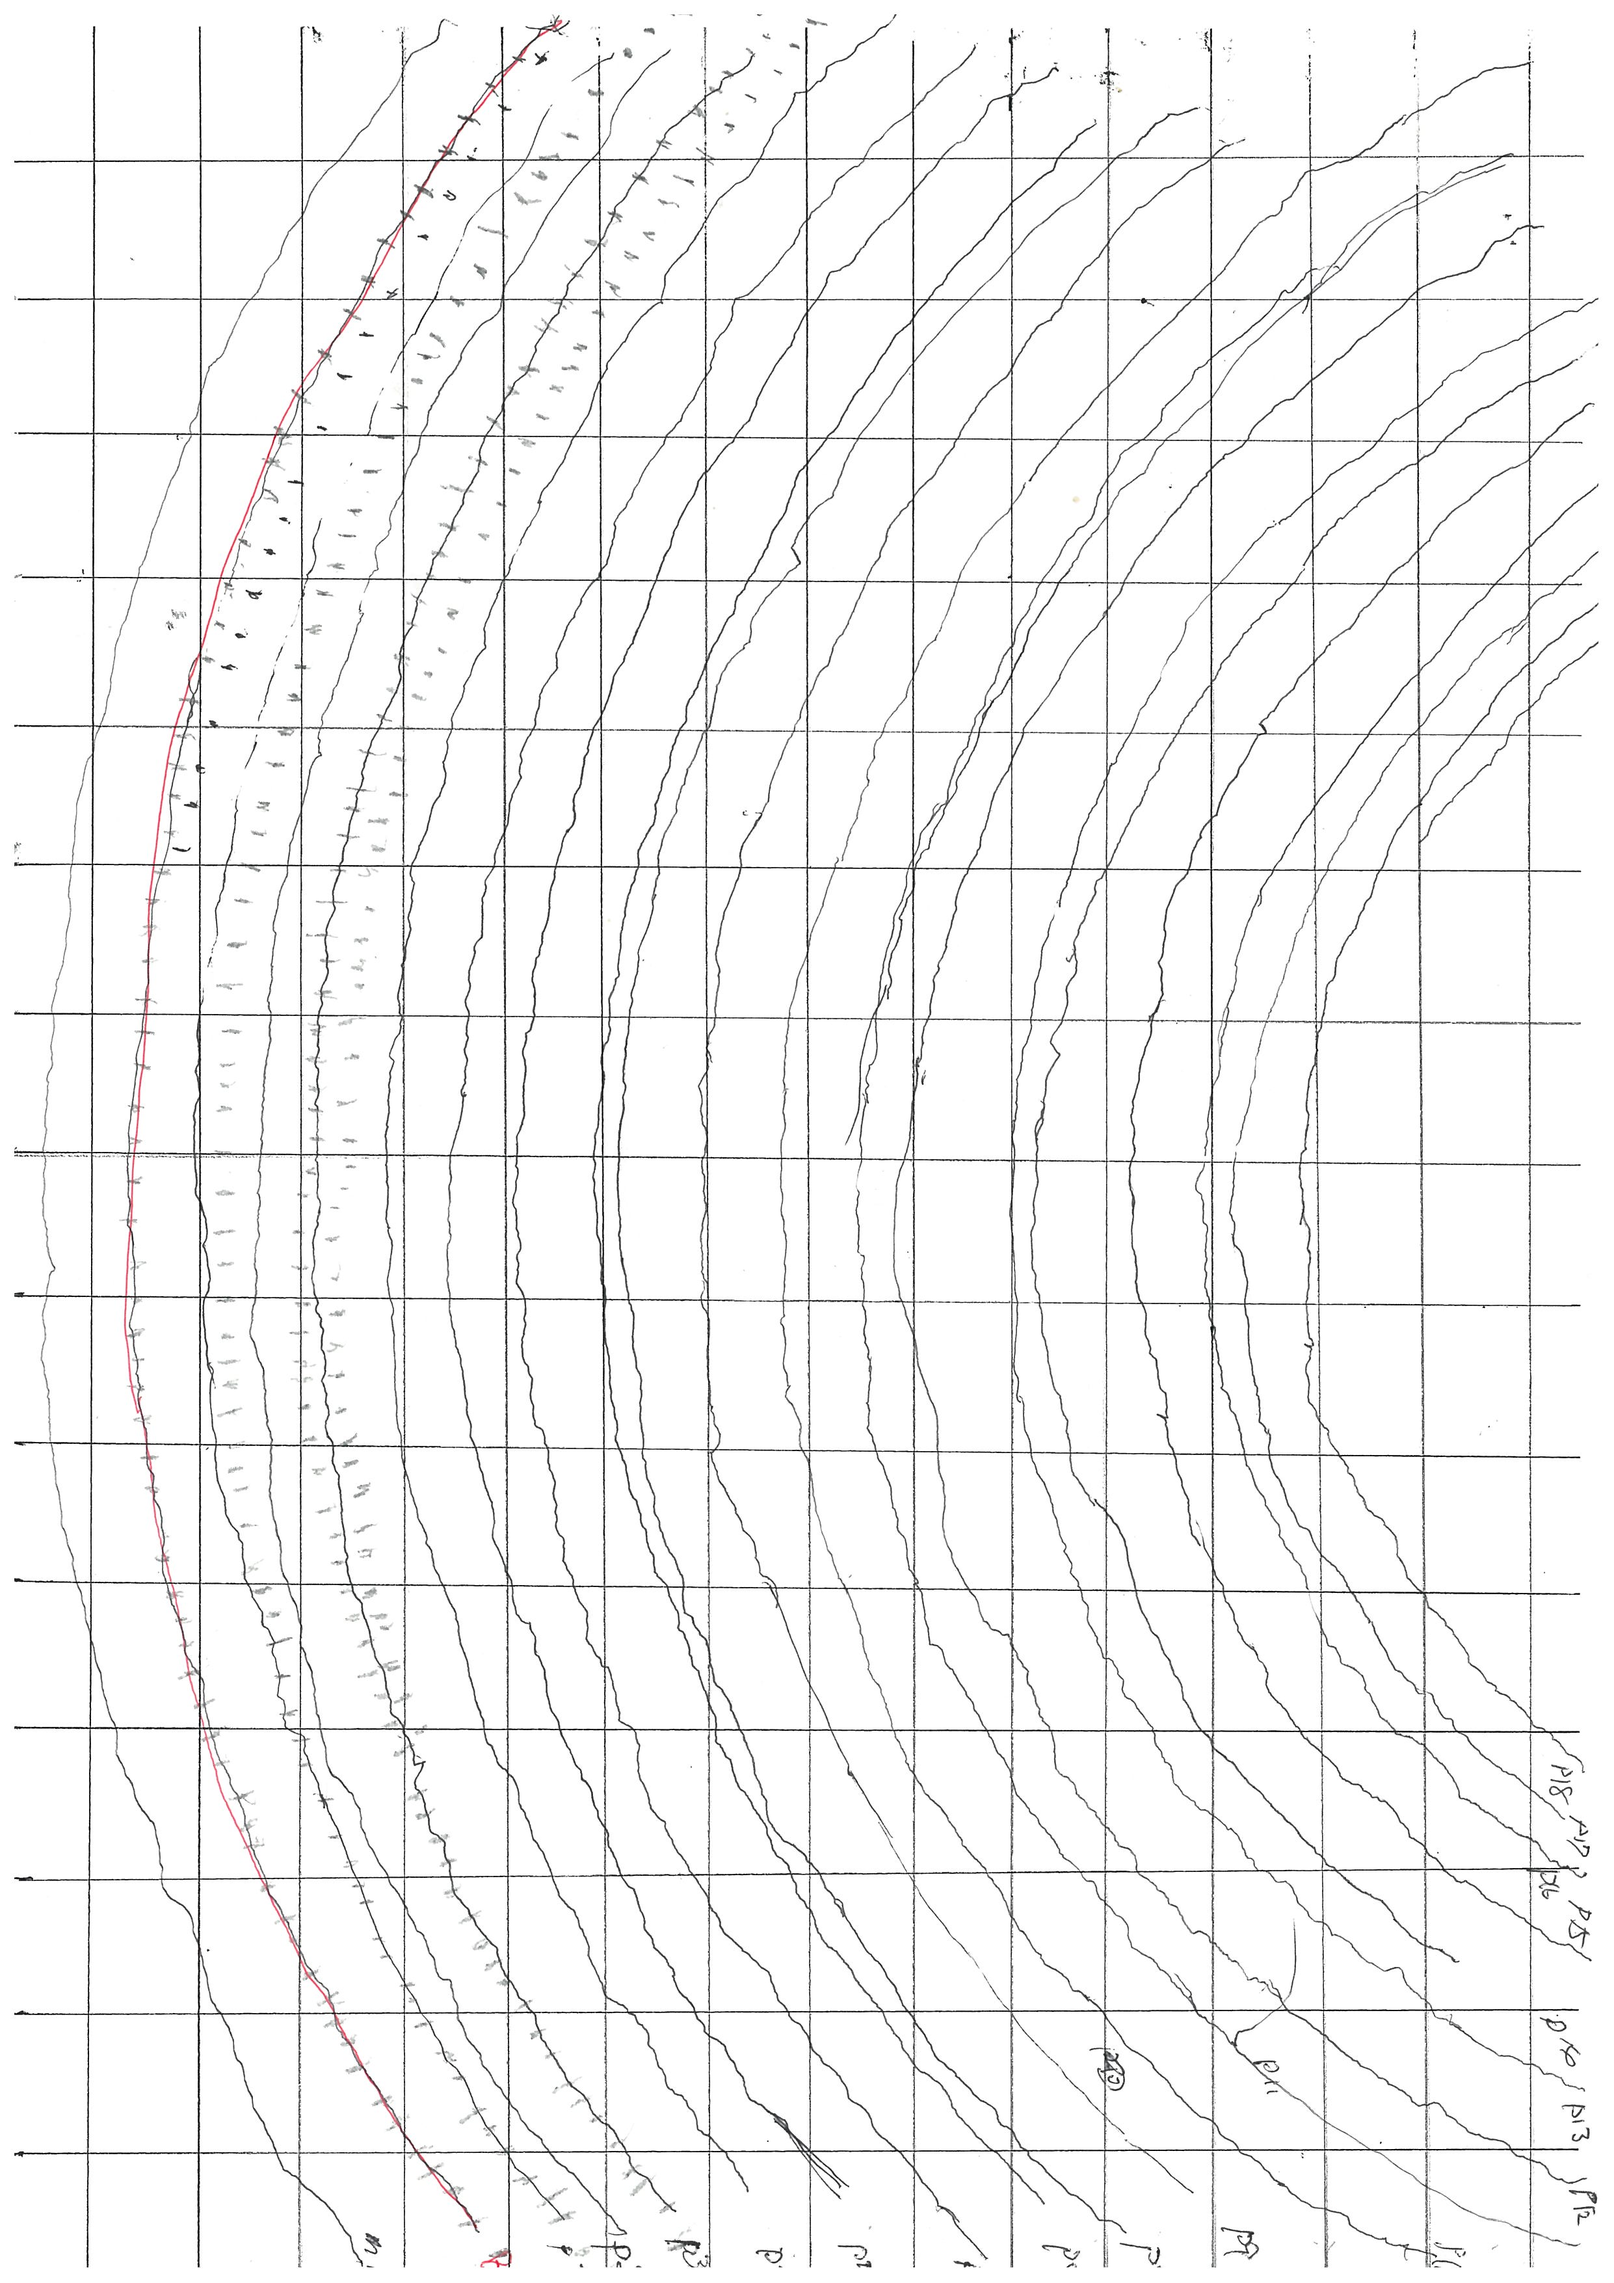
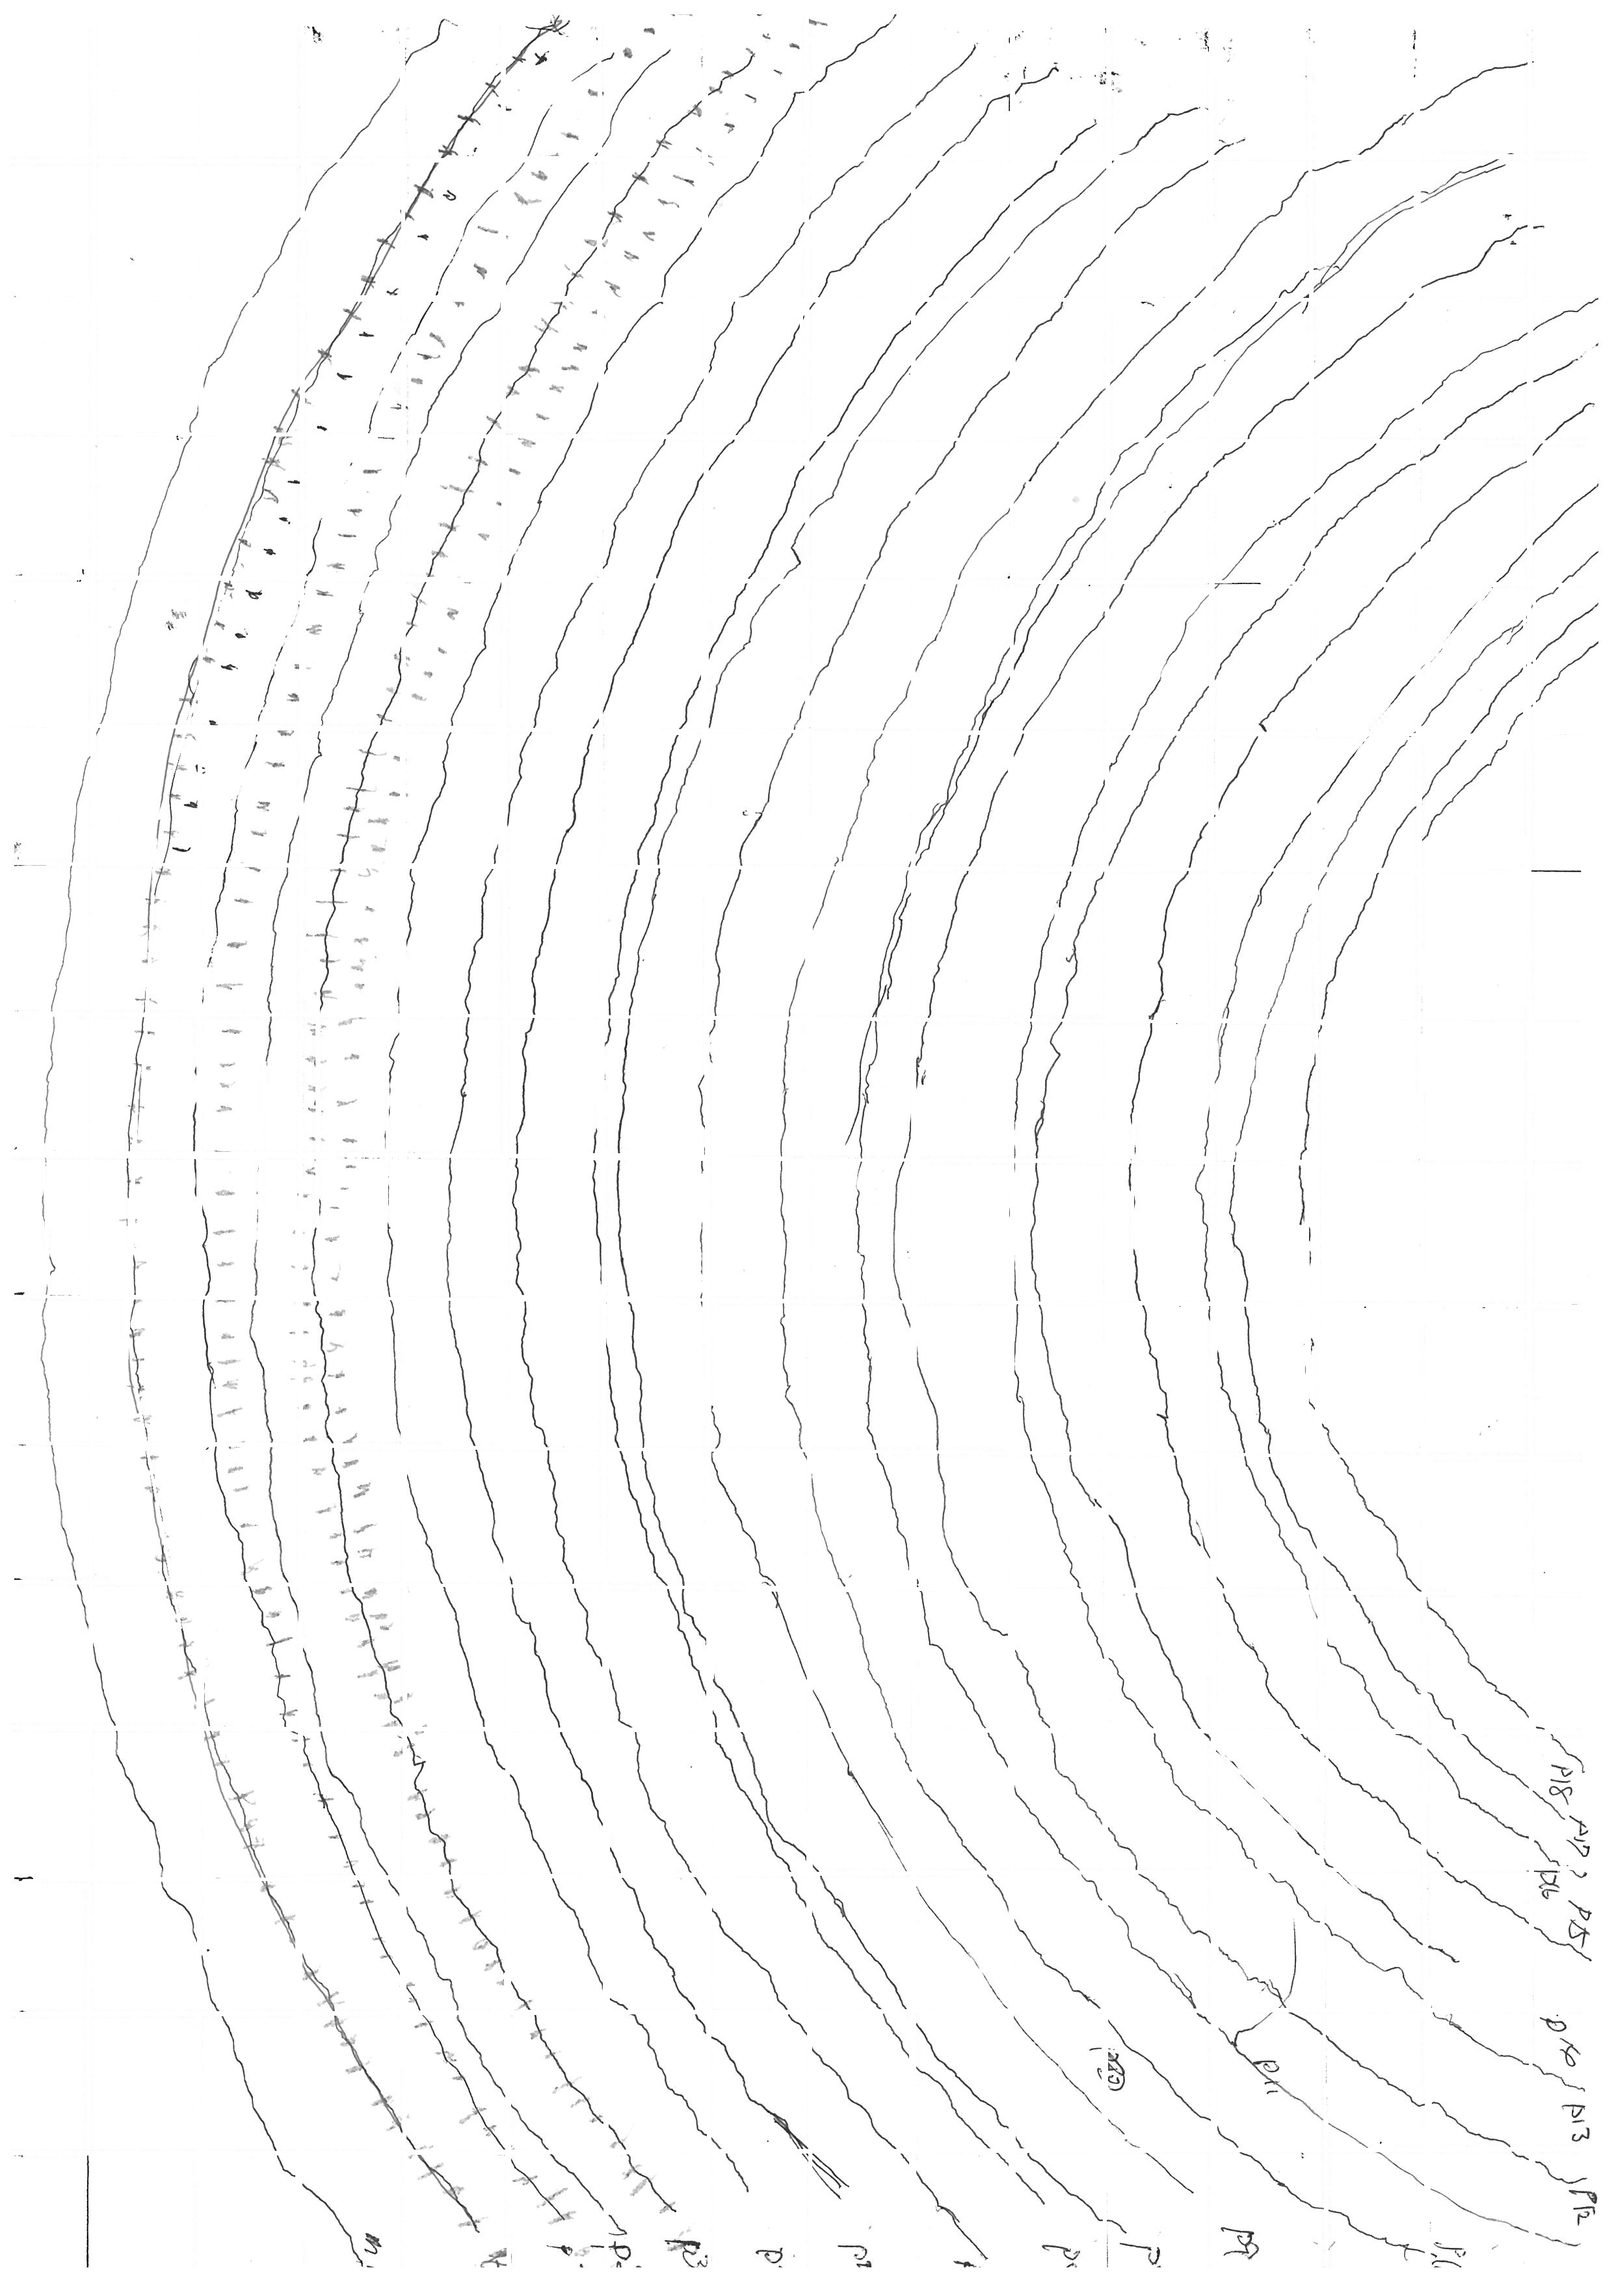
combine arm tracking and fuji

diff --git a/assets/line_detection.py b/assets/line_detection.py
@@ -1,0 +1,21 @@
+import cv2 as cv
+import numpy as np
+
+
+def main():
+    img = cv.imread("arm_tracking_raw.jpg", 0)
+    img_inv = cv.bitwise_not(img)
+    #lines = cv.HoughLinesP(img_inv, rho=1, theta=np.pi/360, threshold=80, minLineLength=300, maxLineGap=5) # OK
+    lines = cv.HoughLinesP(img_inv, rho=1, theta=np.pi/360, threshold=80, minLineLength=200, maxLineGap=5) # OOOKKKK
+    #lines = cv.HoughLinesP(img_inv, rho=1, theta=np.pi/360, threshold=80, minLineLength=150, maxLineGap=5) # ???
+    #lines = cv.HoughLinesP(img_inv, rho=1, theta=np.pi/360, threshold=80, minLineLength=100, maxLineGap=5) # NG
+    for line in lines:
+        x1, y1, x2, y2 = line[0]
+        # 線を消す(白で線を引く)
+        no_lines_img = cv.line(img, (x1,y1), (x2,y2), (255,255,255), 3)
+        cv.imwrite("arm_tracking.jpg", no_lines_img)
+        #cv.imshow("traking", no_lines_img)
+
+
+if __name__ == "__main__":
+    main()

diff --git a/assets/overlap.py b/assets/overlap.py
@@ -1,0 +1,19 @@
+import cv2 as cv
+
+
+def main():
+    img_arm_tracking = cv.imread("arm_tracking.jpg", 0)
+    ret, mask = cv.threshold(img_arm_tracking, 0, 255, cv.THRESH_OTSU)
+    #mask_inv = cv.bitwise_not(mask)
+    cv.imwrite("mask.jpg", mask)
+
+    img_fuji = cv.imread("processing_images/fuji_01.jpg")
+    overlap = cv.bitwise_and(img_fuji, img_fuji, mask=mask)
+    #overlap_bg_src = cv.cvtColor(overlap, cv.COLOR_BGR2RGB)
+    #blend = cv.addWeighted(img_fuji, 0.5, img_arm_tracking, 0.5, 0)
+    # blendsrc = cv.cvtColor(blend, cv.COLOR_BGR2RGB)
+    cv.imwrite("overlap.jpg", overlap)
+
+
+if __name__ == "__main__":
+    main()
